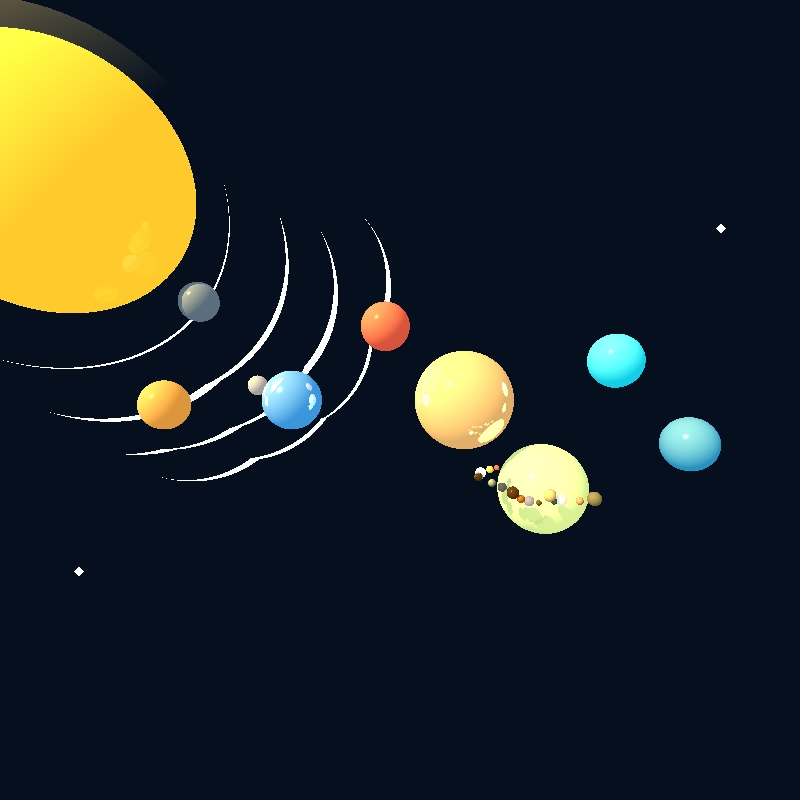
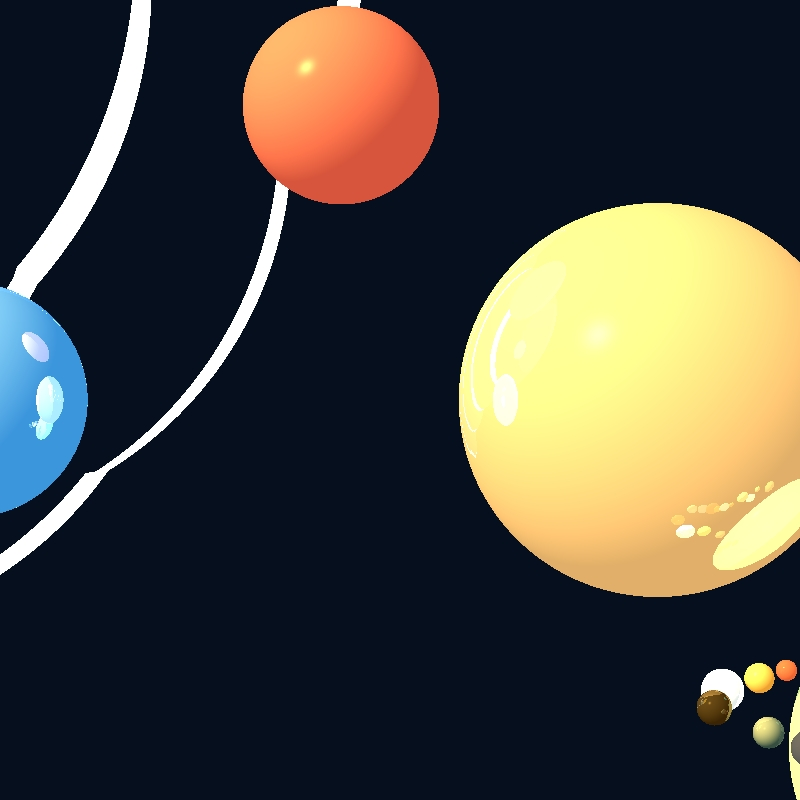
supersampling working on final picture

diff --git a/src/renderer/Render.java b/src/renderer/Render.java
@@ -1023,61 +1023,6 @@ public class Render {
 
 
 
-       /* if(level==0||influenceLevel<MIN_CALC_COLOR_K)
-            return Color.BLACK;
-        Color color = intersection.getGeometry().getEmission();//scene.getAmbientLight().getIntensity();
-        color = color.add(intersection.getGeometry().getEmission());
-        Vector v = intersection.getPoint().subtract(scene.getCamera().getP0()).normalize();
-        Vector n = intersection.getGeometry().getNormal(intersection.getPoint());
-        Material material = intersection.getGeometry().getMaterial();
-        int nShininess = material.getNShininess();
-        double kd = material.getKD();
-        double ks = material.getKS();
-        double ktr = 0d;
-        if (scene.getLights() != null) {
-            List<LightSource> lightSources = scene.getLights();
-            for (LightSource lightSource : lightSources) {
-                Vector l = lightSource.getL(intersection.getPoint());
-                if (sign(alignZero(n.dotProduct(l))) == sign(alignZero(n.dotProduct(v)))) {
-                     ktr = transparency(lightSource, l, n, intersection);
-                    if (ktr*influenceLevel>MIN_CALC_COLOR_K ) {
-                        Color lightIntensity = lightSource.getIntensity(intersection.getPoint()).scale(ktr);
-                        color = color.add(calcDiffusive(kd, l, n, lightIntensity),
-                                calcSpecular(ks, l, n, v, nShininess, lightIntensity));
-                    }
-                }
-            }
-            if (level==1)
-                return Color.BLACK;
-            double kReflection = intersection.getGeometry().getMaterial().getKReflectance();
-            //System.out.println(kReflection);
-            double kkr = kReflection*influenceLevel;
-            //System.out.println(kkr);
-            if(kkr>MIN_CALC_COLOR_K){
-               // System.out.println("I am here!");
-                Ray reflectedRay=constructReflectedRay(intersection,  inRay);
-                Intersectable.GeoPoint reflectedPoint = findClosestPoint(reflectedRay);
-                if (reflectedPoint!=null){
-                    color=color.add(calcColor(reflectedPoint, reflectedRay, level-1, kkr).scale(kReflection));
-                }
-                double kTransparency = intersection.getGeometry().getMaterial().getKTransparency();
-                double kkt = kTransparency*influenceLevel;
-               // System.out.println(influenceLevel);
-                if(kkt>MIN_CALC_COLOR_K){
-                    //System.out.println("I am here");
-                    Ray refractedRay = constructRefractedRay(intersection, inRay);
-                    Intersectable.GeoPoint refractedPoint = findClosestPoint(refractedRay);
-                    if (refractedPoint!=null) {
-                        color = color.add(calcColor(refractedPoint, refractedRay, level - 1, kkt).scale(ktr * kTransparency));
-                        //return color;
-                      // System.out.println("I am here");
-                    }
-                }
-            }
-        }
-        return color;
-    }*/
-
     /**
      * function constructs a reflected ray
      * @param intersection
@@ -1165,7 +1110,7 @@ public class Render {
         if(numSuperSampling==1)
             imageWriter.writeToImage();
         else {
-            Supersampling sps = new Supersampling((int)imageWriter.getWidth(), (int)imageWriter.getHeight(), numSuperSampling);
+            Supersampling sps = new Supersampling(imageWriter.getNx(), imageWriter.getNy(), numSuperSampling);
             imageWriter.writeToImage(sps.superSamplingImprovement(imageWriter.getImage()));
         }
     }
@@ -1304,8 +1249,9 @@ public class Render {
          * @param _outH
          * @param samples
          */
+        //private BufferedImage imageForImprovement;
         public Supersampling(int _outW, int _outH, int samples) {
-            outWidth = _outW*maxPictureScalingLevel;
+            outWidth = _outW* maxPictureScalingLevel;
             outHeight = _outH*maxPictureScalingLevel;
             nSamples = samples;
         }

diff --git a/src/unittests/renderer/MiniprojectOnePicture.java b/src/unittests/renderer/MiniprojectOnePicture.java
@@ -21,7 +21,7 @@ public class MiniprojectOnePicture {
     void spherePic1() {
 
         Scene scene = new Scene("Test scene");
-        scene.setCamera(new Camera(new Point3D(0, 0, -1000), new Vector(0, -1, 0), new Vector(0, 0, 1)));
+        scene.setCamera(new Camera(new Point3D(50, 100, -1700), new Vector(0, -1, 0), new Vector(0, 0, 1)));
         scene.setDistance(1000);
         scene.setBackground(/*Color.BLACK);*/new Color(5,15,30));
         scene.setAmbientLight(new AmbientLight(Color.BLACK, 0));
@@ -33,21 +33,21 @@ public class MiniprojectOnePicture {
         ,  new Sphere(new Color(190,180,60), new Material(0.5, 0.5, 100), 50, new Point3D(-550, 0, 100)));
         */
         scene.addGeometries(
-                new Sphere(new Color(255,200,40), new Material(0.5, 0.5, 300, 0.15, 0.05), 330, new Point3D(-755, -440, 100))
+                new Sphere(new Color(255,200,40), new Material(0.5, 0.5, 300, 0.25, 0.05), 330, new Point3D(-755, -440, 100))
 
                 // planets
-                ,  new Sphere(new Color(90,110,125), new Material(0.5, 0.5, 100), 40, new Point3D(-410, -200, 20))
-                ,  new Sphere(new Color(220,150,60), new Material(0.5, 0.5, 100), 50, new Point3D(-480, 10, 20))
+                ,  new Sphere(new Color(90,110,125), new Material(0.5, 0.5, 100, 0, 0.01), 40, new Point3D(-410, -200, 20))
+                ,  new Sphere(new Color(220,150,60), new Material(0.5, 0.5, 110, 0, 0.09), 50, new Point3D(-480, 10, 20))
                 ,  new Sphere(new Color(60,150,220), new Material(0.5, 0.7, 100, 0, 0.5), 60, new Point3D(-220, 0, 20))
 
 
-                ,  new Sphere(new Color(215,85,60), new Material(0.5, 0.5, 100), 50, new Point3D(-30, -150, 20))
+                ,  new Sphere(new Color(215,85,60), new Material(0.5, 0.5, 120, 0, 0.15), 50, new Point3D(-30, -150, 20))
                 ,  new Sphere(new Color(225,175,105), new Material(0.5, 0.5, 100, 0, 0.4), 100, new Point3D(130, 0, 20))
                 ,  new Sphere(new Color(143, 161, 102/*250,220,80*/), new Material(0.5, 0.5, 100, 0.3, 0), 90, new Point3D(290, 180, 20))
-                ,  new Sphere(new Color(20,205,230), new Material(0.5, 0.5, 100), 55, new Point3D(440, -80, 20))
-                ,  new Sphere(new Color(40,145,190), new Material(0.5, 0.5, 100), 55, new Point3D(590, 90, 20))
+                ,  new Sphere(new Color(20,205,230), new Material(0.5, 0.5, 100, 0, 0.09), 55, new Point3D(440, -80, 20))
+                ,  new Sphere(new Color(40,145,190), new Material(0.5, 0.3, 100, 0, 0.11), 55, new Point3D(590, 90, 20))
 
-                ,  new Sphere(new Color(160,160,160), new Material(0.5, 0.5, 100), 20, new Point3D(-290, -30, 20))
+                ,  new Sphere(new Color(160,160,160), new Material(0.5, 0.5, 100, 0.1, 0.17), 20, new Point3D(-290, -30, 20))
 
                 //star
                 , new Triangle(new Color(255,255,255), new Material(0.8, 0.2, 300),
@@ -122,8 +122,8 @@ public class MiniprojectOnePicture {
 
 
 
-        ImageWriter imageWriter = new ImageWriter("SolarSystemSuperSampled", 400, 400, 800, 800);
-        Render render = new Render(imageWriter, scene, 15);
+        ImageWriter imageWriter = new ImageWriter("SolarSystemSuperSampled15FinalPicture", 800, 500, 1600, 1000);
+        Render render = new Render(imageWriter, scene, 8);
 
         render.renderImage();
         render.writeToImage();
